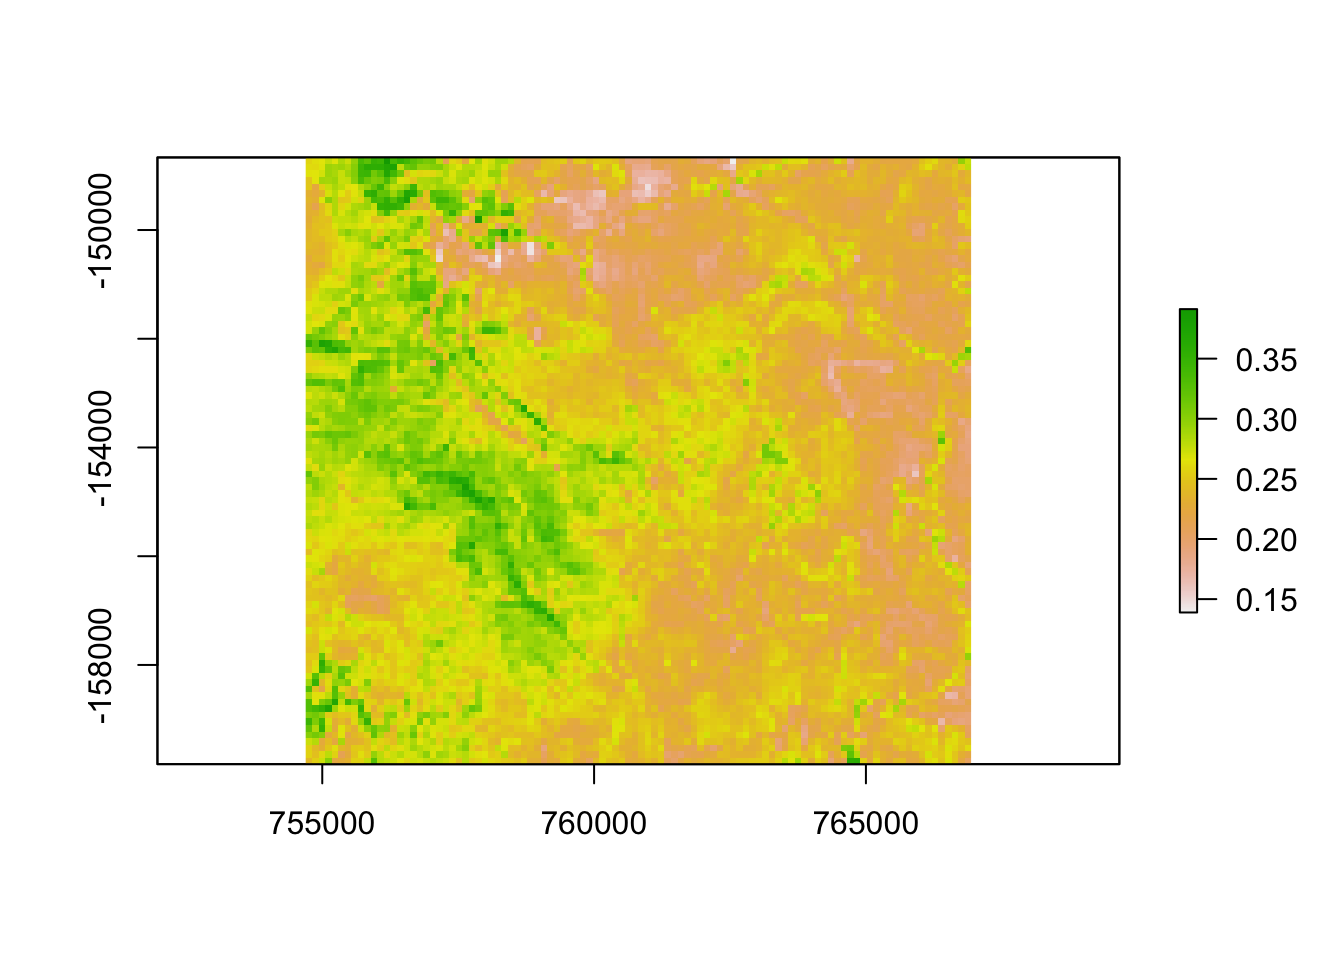
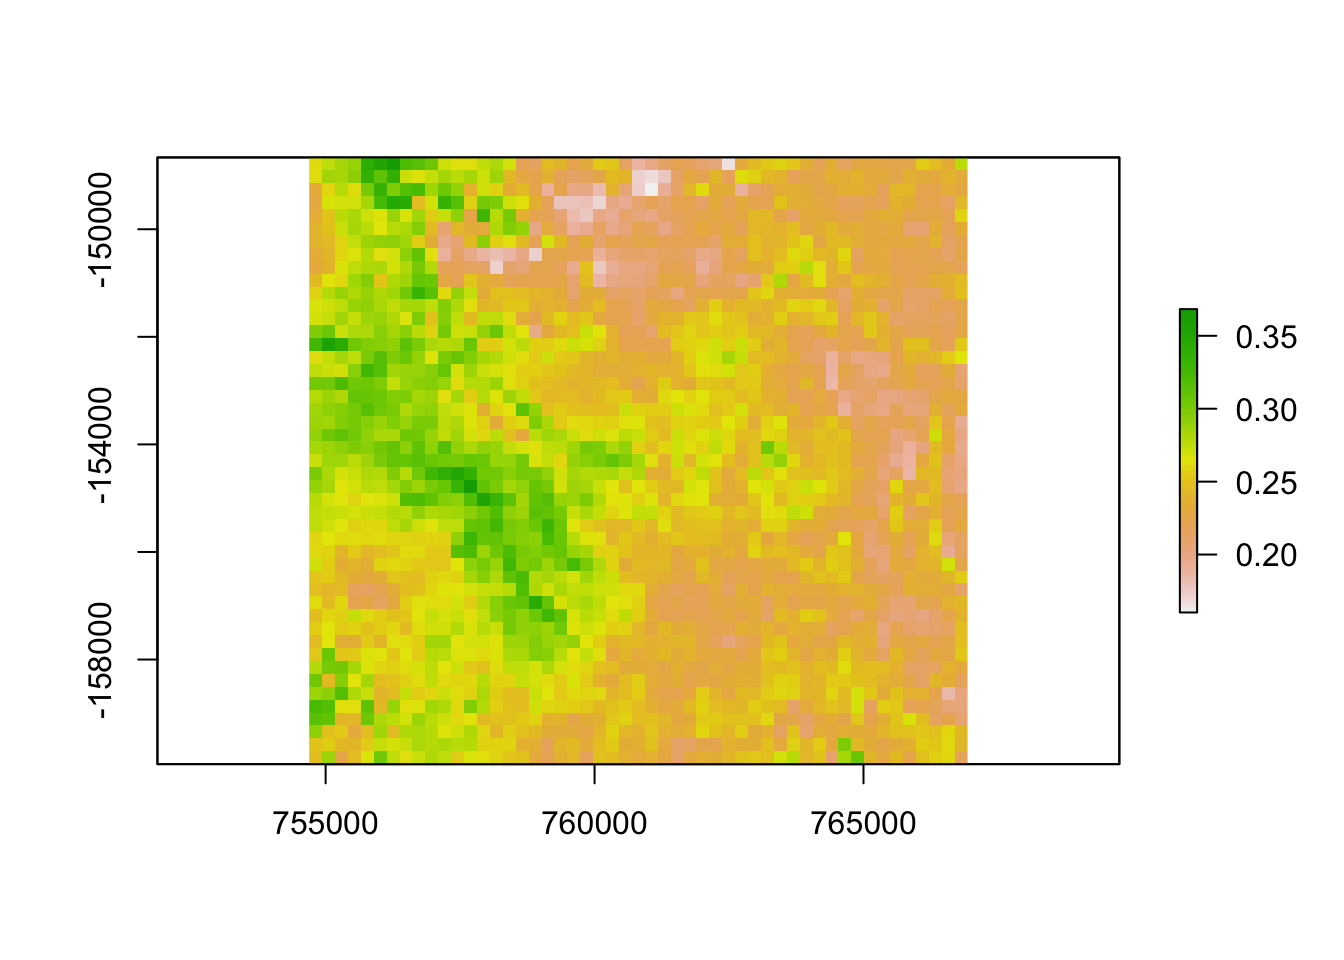
updated SAM

diff --git a/docs/6_sam_naboisho.html b/docs/6_sam_naboisho.html
@@ -369,13 +369,16 @@ div.tocify {
       <a href="3_gam.html">Generalised Additive Models</a>
     </li>
     <li>
-      <a href="4_sdm.html">Species Distribution Modelling</a>
+      <a href="4_sdm.html">Distribution Modelling</a>
     </li>
     <li>
       <a href="5_eDNA.html">Environmental DNA</a>
     </li>
     <li>
-      <a href="6_sam_naboisho.Rmd">Species Abundance Modelling</a>
+      <a href="6_sam_naboisho.Rmd">Abundance Modelling</a>
+    </li>
+    <li>
+      <a href="7_movement_BA055.Rmd">Movement Modelling</a>
     </li>
   </ul>
 </li>
@@ -408,6 +411,7 @@ library(raster)
 
 # Set filename of raw csv to load
 rm(list = ls())  
+setwd(&quot;/Users/anthony/Documents/GitHub/ComputationalEcology/&quot;)
 survey &lt;- readRDS(&quot;data_analysis_files/naboisho/clean_survey.RData&quot;)</code></pre>
 <p>First change a few bits of the data structure</p>
 <pre class="r"><code># Add sf POINTs to dataframe for coords
@@ -492,7 +496,7 @@ zebra %&gt;%
 <pre class="r"><code># Load NDVI of naboisho for July 2019
 ndvi_r &lt;- raster(&quot;data_analysis_files/naboisho/naboisho_ndvi_cropped&quot;) %&gt;%
   # Downsample raster to 120m x 120m cells
-  aggregate(fact=4, fun=mean)
+  aggregate(fact=8, fun=mean)
 # Plot NDVI of Naboisho study region
 plot(ndvi_r)</code></pre>
 <p><img src="6_sam_naboisho_files/figure-html/ndvi_join-1.png" width="672" /></p>
@@ -507,12 +511,13 @@ coordinates(zebra) &lt;- ~ easting + northing
 # Generate sample variogram values for species location data
 species_vgm &lt;- gstat::variogram(size ~ ndvi, zebra)
 # Fit model
-species_fit &lt;- fit.variogram(species_vgm, model=vgm(1, &quot;Sph&quot;, 900, 1)) # fit model
+species_fit &lt;- fit.variogram(species_vgm, model=vgm(1, &quot;Sph&quot;, 900,1))
+#species_fit &lt;- fit.variogram(species_vgm, model=vgm(5, &quot;Sph&quot;, 8,2))
 # Show model parameters
 species_fit</code></pre>
 <pre><code>##   model    psill    range
-## 1   Nug 168.3036   0.0000
-## 2   Sph 174.9407 665.1904</code></pre>
+## 1   Nug 183.8316   0.0000
+## 2   Sph 162.2805 709.7361</code></pre>
 <pre class="r"><code># Plot the model fit
 plot(species_vgm, species_fit)</code></pre>
 <p><img src="6_sam_naboisho_files/figure-html/variogram_fit-1.png" width="672" /></p>
@@ -546,15 +551,20 @@ predictions %&gt;%
   coord_equal() +
   scale_fill_viridis_c() +
   theme_bw()</code></pre>
-<p><img src="6_sam_naboisho_files/figure-html/unnamed-chunk-1-1.png" width="672" /></p>
+<p><img src="6_sam_naboisho_files/figure-html/make_plot-1.png" width="672" /></p>
 <p>Calculate the overall population density per km2</p>
-<pre class="r"><code>total_exp_count = sum(pred.MCML$exponential$predictions)
+<pre class="r"><code># Calculate total number
+total_count = sum(log(pred.MCML$exponential$predictions))
+total_count</code></pre>
+<pre><code>## [1] 4397.861</code></pre>
+<pre class="r"><code># Calculate survey area
 survey_area = nrow(ndvi_r) * ncol(ndvi_r) * xres(ndvi_r)/1000 * yres(ndvi_r)/1000
-
-# Calculate average density per km2
-exp_density = total_exp_count / survey_area
-log(exp_density)</code></pre>
-<pre><code>## [1] 6.197221</code></pre>
+survey_area</code></pre>
+<pre><code>## [1] 138.0672</code></pre>
+<pre class="r"><code># Calculate average density per km2
+density = total_count / survey_area
+density</code></pre>
+<pre><code>## [1] 31.85305</code></pre>
 
 
 
